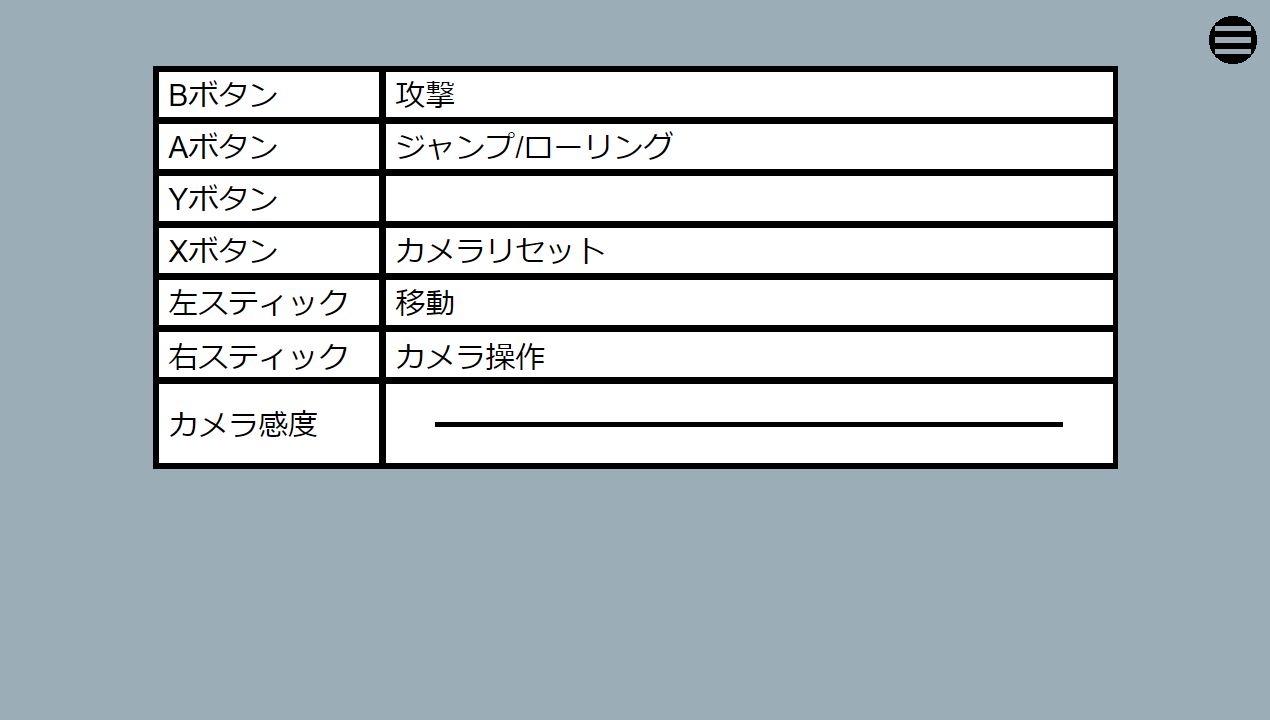
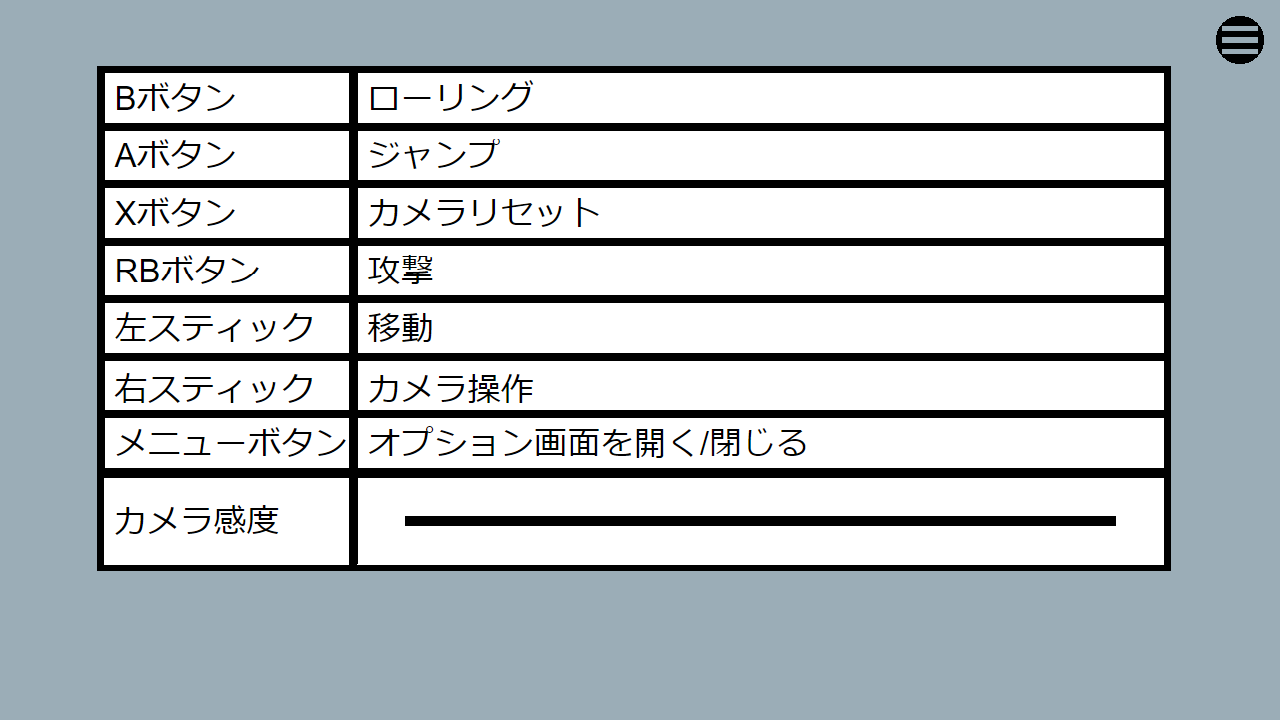
タイトルからもオプション画面へ

Changed region(s): [[0.0614, 0.0917, 0.9213, 0.7944], [0.9827, 0.0306, 1.0, 0.0917]]

diff --git a/User/SCENE/TitleScene.cpp b/User/SCENE/TitleScene.cpp
@@ -33,28 +33,75 @@ void TitleScene::Initialize() {
 	basePic_->Initialize(SpriteCommon::GetInstance());
 	basePic_->SetSize({ WinApp::window_width,WinApp::window_height });
 
+	startSelect_ = { 1185,327 };
+	optionSelect_ = { 1185,490 };
+	arrow_ = new Sprite();
+	arrow_->Initialize(SpriteCommon::GetInstance());
+	arrow_->SetPozition(startSelect_);
+	arrow_->SetSize({ 64,64 });
+
+
 	basePic_->SetTextureIndex(SpriteLoader::TITLE);
-	
+	arrow_->SetTextureIndex(SpriteLoader::ARROW);
+
 	field_ = std::make_unique<TitleField>();
 	field_->Initialize();
 
 	ship_ = std::make_unique<Ship>();
 	ship_->Initialize();
+
+	option_ = new Option();
+	option_->Initialize();
+	optionOpen_ = false;
+	isStartSelect_ = true;
 }
 
 TitleScene::~TitleScene() {
 	delete basePic_;
+	delete arrow_;
+	delete option_;
 	audio_->StopWave(pSourceVoice_);
 }
 
 //更新
 void TitleScene::Update() {
-	camera_->Update();
-	field_->Update();
-	ship_->Update();
+	if (optionOpen_) {
+		//オプション画面
+		option_->Update();
+		if (Input::GetInstance()->PButtonTrigger(B) || Input::GetInstance()->PButtonTrigger(START)) {
+			optionOpen_ = false;
+		}
+	}else {
+		//スタート画面
+		if (ship_->GetIsMoveShip() == false) {
+			//選択変更
+			if (Input::GetInstance()->LeftStickInput()) {
+				if (Input::GetInstance()->GetLeftStickVec().y > 0) {
+					arrow_->SetPozition(startSelect_);
+					isStartSelect_ = true;
+				}else if (Input::GetInstance()->GetLeftStickVec().y < 0) {
+					arrow_->SetPozition(optionSelect_);
+					isStartSelect_ = false;
+				}
+			}
+			//実行
+			if (Input::GetInstance()->PButtonTrigger(B)) {
+				if (isStartSelect_) {
+					ship_->Start();
+				}else {
+					optionOpen_ = true;
+				}
+			}
+		}
 
-	basePic_->Update();
-	StateTransition();
+		camera_->Update();
+		field_->Update();
+		ship_->Update();
+		basePic_->Update();
+		arrow_->Update();
+		StateTransition();
+	}
+
 }
 
 
@@ -68,7 +115,13 @@ void TitleScene::FbxDraw() {
 }
 
 void TitleScene::SpriteDraw() {
-	basePic_->Draw();
+	if (optionOpen_) {
+		option_->SpriteDraw();
+	}
+	else {
+		basePic_->Draw();
+		arrow_->Draw();
+	}
 }
 
 void TitleScene::StateTransition() {

diff --git a/User/SCENE/Option.cpp b/User/SCENE/Option.cpp
@@ -22,13 +22,14 @@ void Option::Initialize() {
 	rPic_ = std::make_unique<Sprite>();
 	rPic_->Initialize(SpriteCommon::GetInstance());
 	rPic_->SetSize({ 48,48 });
-	rPic_->SetPozition({ 411 + (GameCamera::GetSensitivity().x - 0.02f) * 7830.0f, 400.0f });
+	rPic_->SetAnchorPoint({ 0.5f,0.5f });
+	rPic_->SetPozition({ 405 + (GameCamera::GetSensitivity().x - 0.02f) * 8880.0f, 521.0f });
 	rPic_->SetTextureIndex(SpriteLoader::RSTICK);
 }
 
 void Option::Update() {
 	basePic_->Update();
-	rPic_->SetPozition({ 411 + (GameCamera::GetSensitivity().x - 0.02f) * 7830.0f, 400.0f });
+	rPic_->SetPozition({ 405 + (GameCamera::GetSensitivity().x - 0.02f) * 8880.0f, 521.0f });
 	rPic_->Update();
 
 	if (0 < Input::GetInstance()->GetRightStickVec().x) {	

diff --git a/User/SCENE/TitleScene.h b/User/SCENE/TitleScene.h
@@ -10,6 +10,7 @@
 #include"Audio.h"
 #include"TitleField.h"
 #include"Ship.h"
+#include"Option.h"
 
 class TitleScene : public SceneState {
 public:
@@ -52,11 +53,15 @@ private:
 	Audio* audio_ = nullptr;
 	IXAudio2SourceVoice* pSourceVoice_ = nullptr;
 
+	//オプション
+	Option* option_ = nullptr;
+
 	//カメラ
 	Camera* camera_ = nullptr;
 
 	//画像
 	Sprite* basePic_;
+	Sprite* arrow_;
 
 	//フィールド
 	std::unique_ptr<TitleField> field_;
@@ -64,4 +69,9 @@ private:
 	//船
 	const float fadeOutPos = 60.0f;
 	std::unique_ptr<Ship> ship_;
+
+	Vector2 startSelect_;
+	Vector2 optionSelect_;
+	bool optionOpen_;
+	bool isStartSelect_;
 };

diff --git a/User/FIELD/Ship.h b/User/FIELD/Ship.h
@@ -27,9 +27,19 @@ public:
 	void Draw();
 
 	/**
+	 * @brief 動き始める
+	*/
+	void Start() { isMoveShip_ = true; };
+
+	/**
 	 * @brief 座標取得
 	*/
 	Vector3 GetPos() { return ship_->wtf.position; };
+
+	/**
+	 * @brief 動き始めているか取得
+	*/
+	bool GetIsMoveShip() { return isMoveShip_; };
 
 private:
 	//入力

diff --git a/User/LOADER/SpriteLoader.cpp b/User/LOADER/SpriteLoader.cpp
@@ -19,4 +19,5 @@ void SpriteLoader::Load() {
 	SpriteCommon::GetInstance()->LoadTexture(RSTICK, "r.png");
 	SpriteCommon::GetInstance()->LoadTexture(TELOPBASE, "telopBase.png");
 	SpriteCommon::GetInstance()->LoadTexture(PUSHB, "pushB.png");
+	SpriteCommon::GetInstance()->LoadTexture(ARROW, "arrow.png");
 }

diff --git a/User/FIELD/Ship.cpp b/User/FIELD/Ship.cpp
@@ -42,14 +42,6 @@ void Ship::Update() {
 
 	player_->Update();
 
-	if (input_->PButtonTrigger(B)) {
-		isMoveShip_ = true;
-	}
-
-	if (input_->TriggerKey(DIK_SPACE)) {
-		isMoveShip_ = true;
-	}
-
 	if (isMoveShip_) {
 		if (timer_ < limit_) {
 			timer_++;

diff --git a/User/LOADER/SpriteLoader.h b/User/LOADER/SpriteLoader.h
@@ -20,6 +20,7 @@ public:
 		RSTICK,
 		TELOPBASE,
 		PUSHB,
+		ARROW,
 	};
 
 	/**
